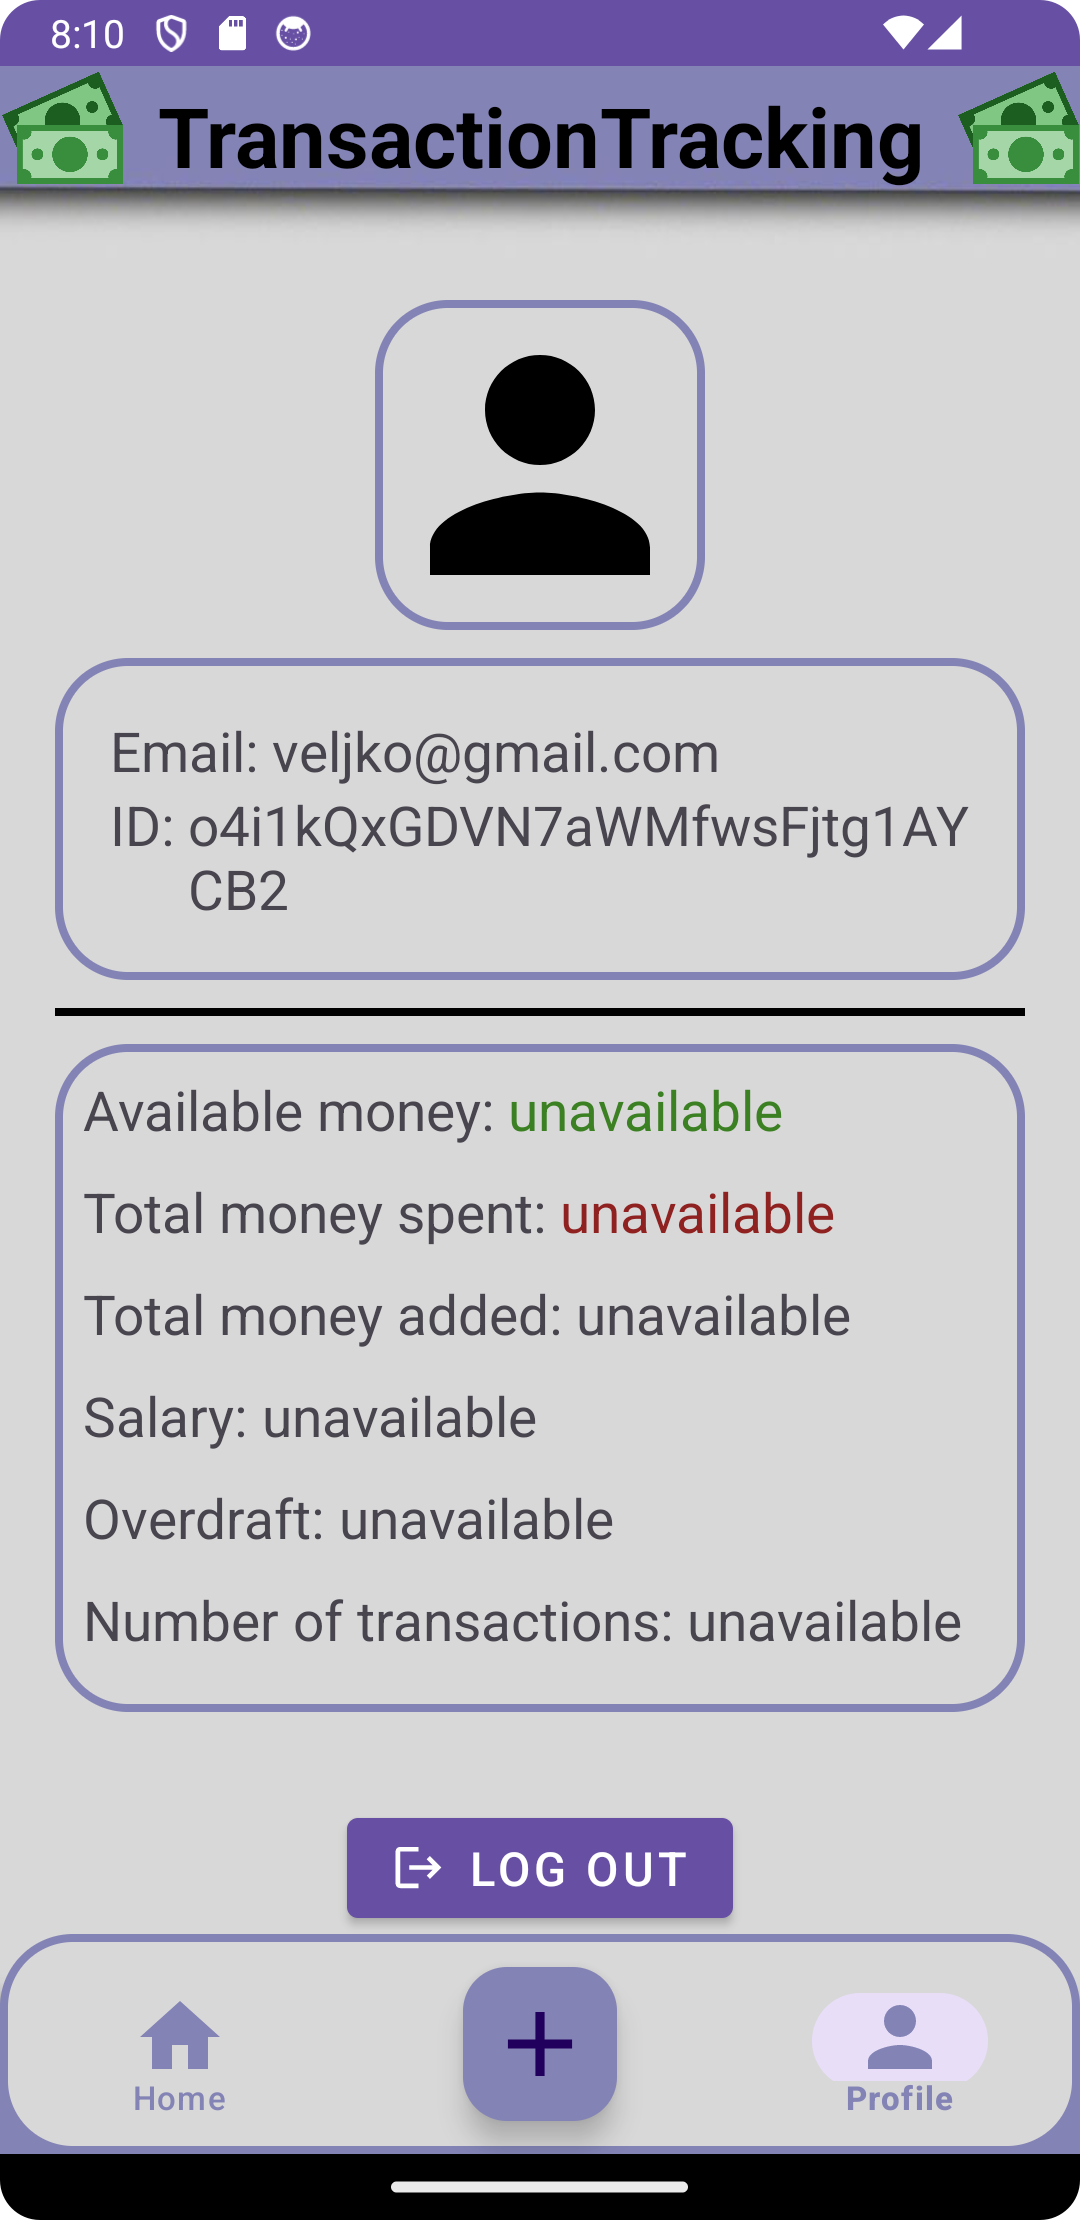
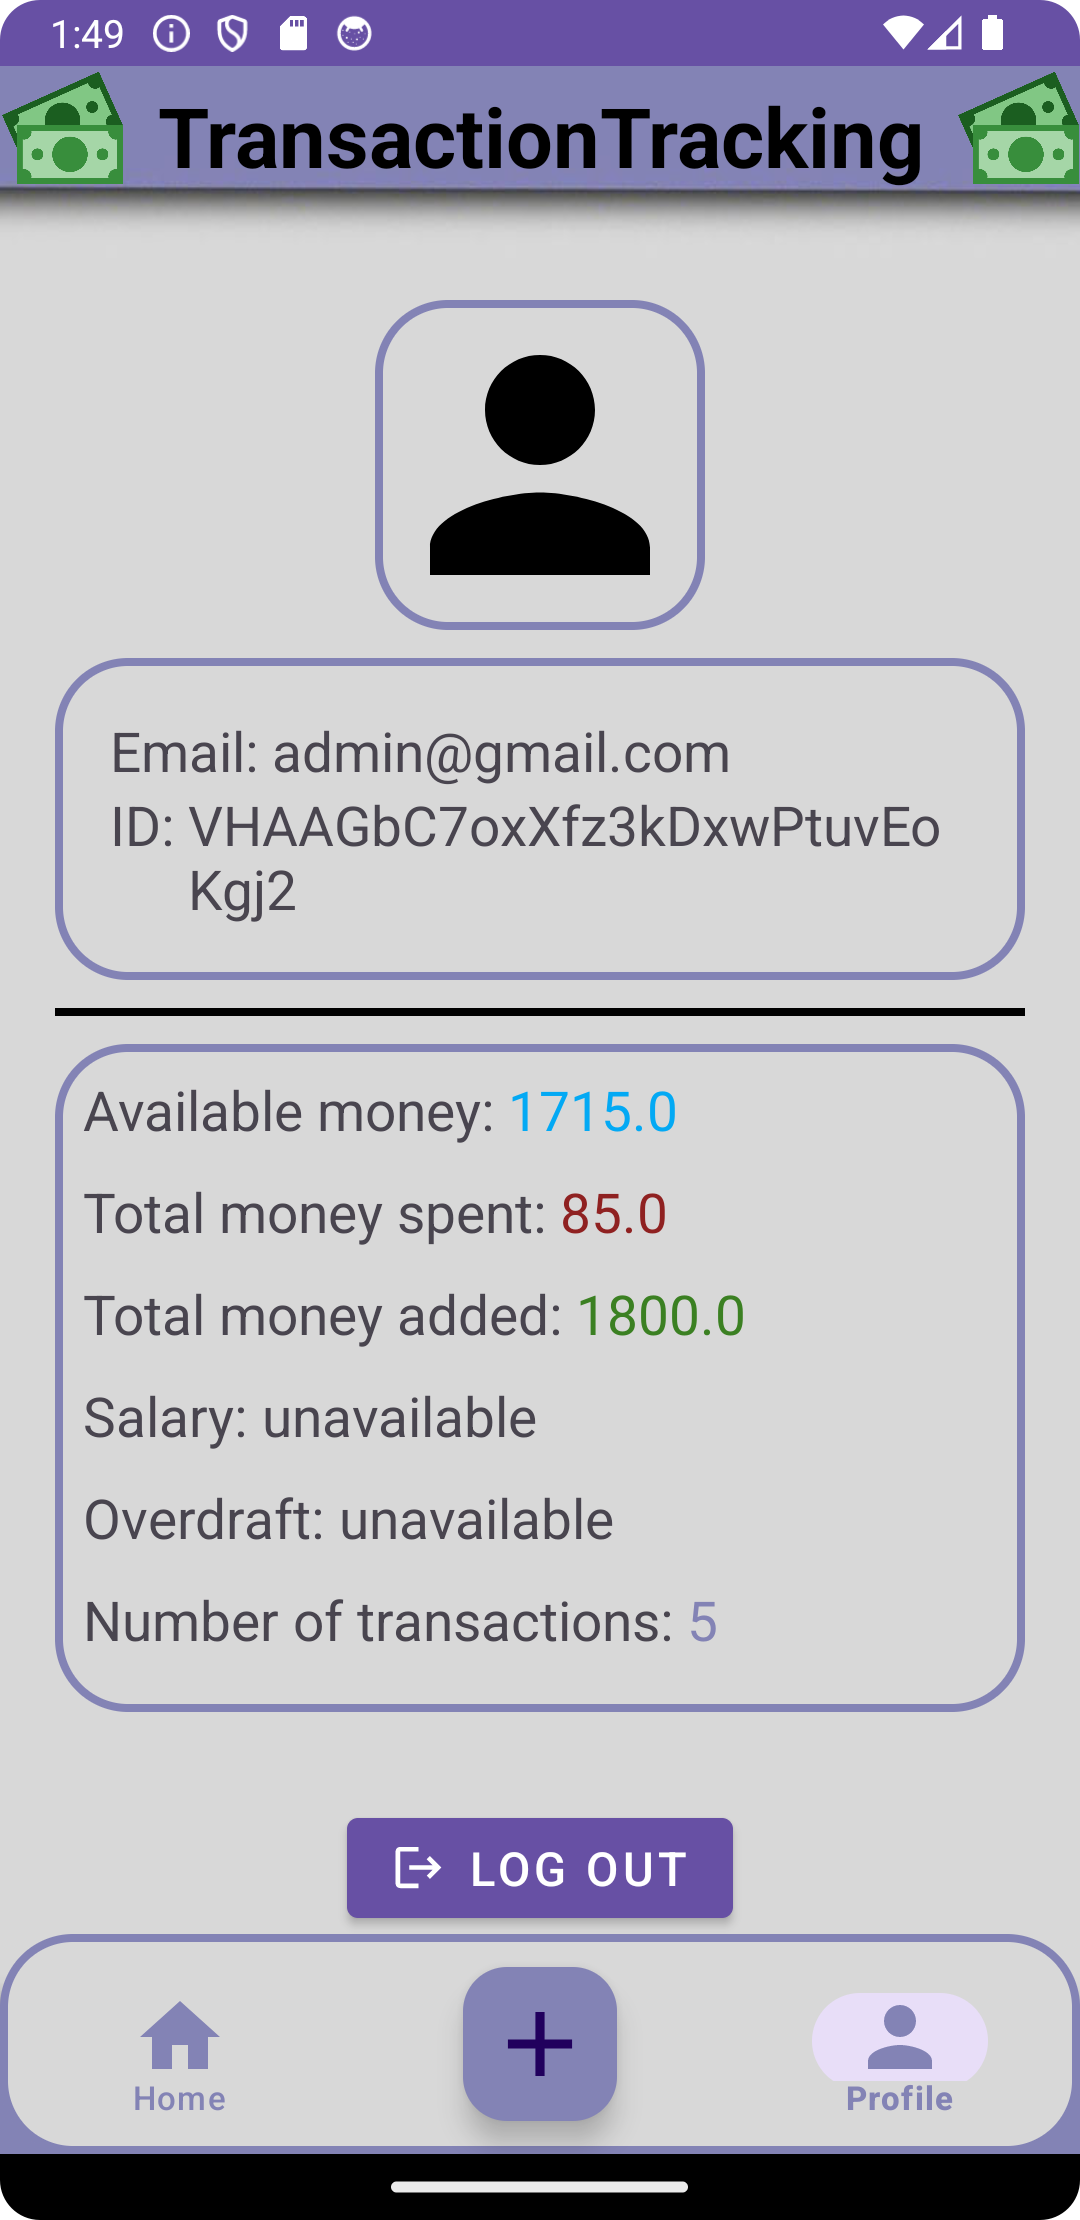
User/Profile Updates

diff --git a/app/src/main/java/com/example/pracenjetransakcija/fragments/UserFragment.kt b/app/src/main/java/com/example/pracenjetransakcija/fragments/UserFragment.kt
@@ -12,22 +12,74 @@ import android.widget.Toast
 import com.example.pracenjetransakcija.R
 import com.example.pracenjetransakcija.SignIn
 import com.google.firebase.auth.FirebaseAuth
+import com.google.firebase.database.DataSnapshot
+import com.google.firebase.database.DatabaseError
+import com.google.firebase.database.FirebaseDatabase
+import com.google.firebase.database.ValueEventListener
+import com.google.firebase.database.getValue
 
 class UserFragment : Fragment() {
 
     private lateinit var firebaseAuth: FirebaseAuth
 
-
-    override fun onCreateView(inflater: LayoutInflater, container: ViewGroup?,
-                              savedInstanceState: Bundle?): View? {
-        // Inflate the layout for this fragment
-
-        val view: View = inflater.inflate(R.layout.fragment_user, container, false)
-
+    private fun setUser(view: View){
         val userEmail: TextView = view.findViewById(R.id.user_email)
         userEmail.text = FirebaseAuth.getInstance().currentUser?.email.toString()
         val userId: TextView = view.findViewById(R.id.user_id)
         userId.text = FirebaseAuth.getInstance().currentUser?.uid.toString()
+    }
+
+    private fun setMoney(view: View){
+
+        val user = FirebaseAuth.getInstance().currentUser?.uid.toString()
+
+        val database = FirebaseDatabase.getInstance()
+        val reference = database.getReference("Transactions")
+        reference.addListenerForSingleValueEvent(object : ValueEventListener {
+
+            override fun onDataChange(snapshot: DataSnapshot) {
+
+                var availableMoney = 0.0
+                var spentMoney = 0.0
+                var addedMoney = 0.0
+                var numberOfTransactions = 0
+                for (childSnapshot in snapshot.children) {
+                    // val childKey = childSnapshot.key
+                    // val childValue = childSnapshot.value
+
+                    if(user == childSnapshot.child("userId").getValue(String::class.java)){
+                        val amount = childSnapshot.child("amount").getValue(Double::class.java)
+                        availableMoney += amount!!
+                        numberOfTransactions++
+
+                        if(amount < 0)
+                            spentMoney -= amount
+
+                        if(amount > 0)
+                            addedMoney += amount
+                    }
+
+                }
+                view.findViewById<TextView>(R.id.money_available).text = availableMoney.toString()
+                view.findViewById<TextView>(R.id.money_spent).text = spentMoney.toString()
+                view.findViewById<TextView>(R.id.money_added).text = addedMoney.toString()
+                view.findViewById<TextView>(R.id.transaction_number).text = numberOfTransactions.toString()
+            }
+
+            override fun onCancelled(error: DatabaseError) {
+
+            }
+        })
+
+    }
+
+    override fun onCreateView(inflater: LayoutInflater, container: ViewGroup?,
+                              savedInstanceState: Bundle?): View? {
+        // Inflate the layout for this fragment
+        val view: View = inflater.inflate(R.layout.fragment_user, container, false)
+
+        setUser(view)
+        setMoney(view)
 
         view.findViewById<Button>(R.id.btn_logout).setOnClickListener {
             firebaseAuth = FirebaseAuth.getInstance()
